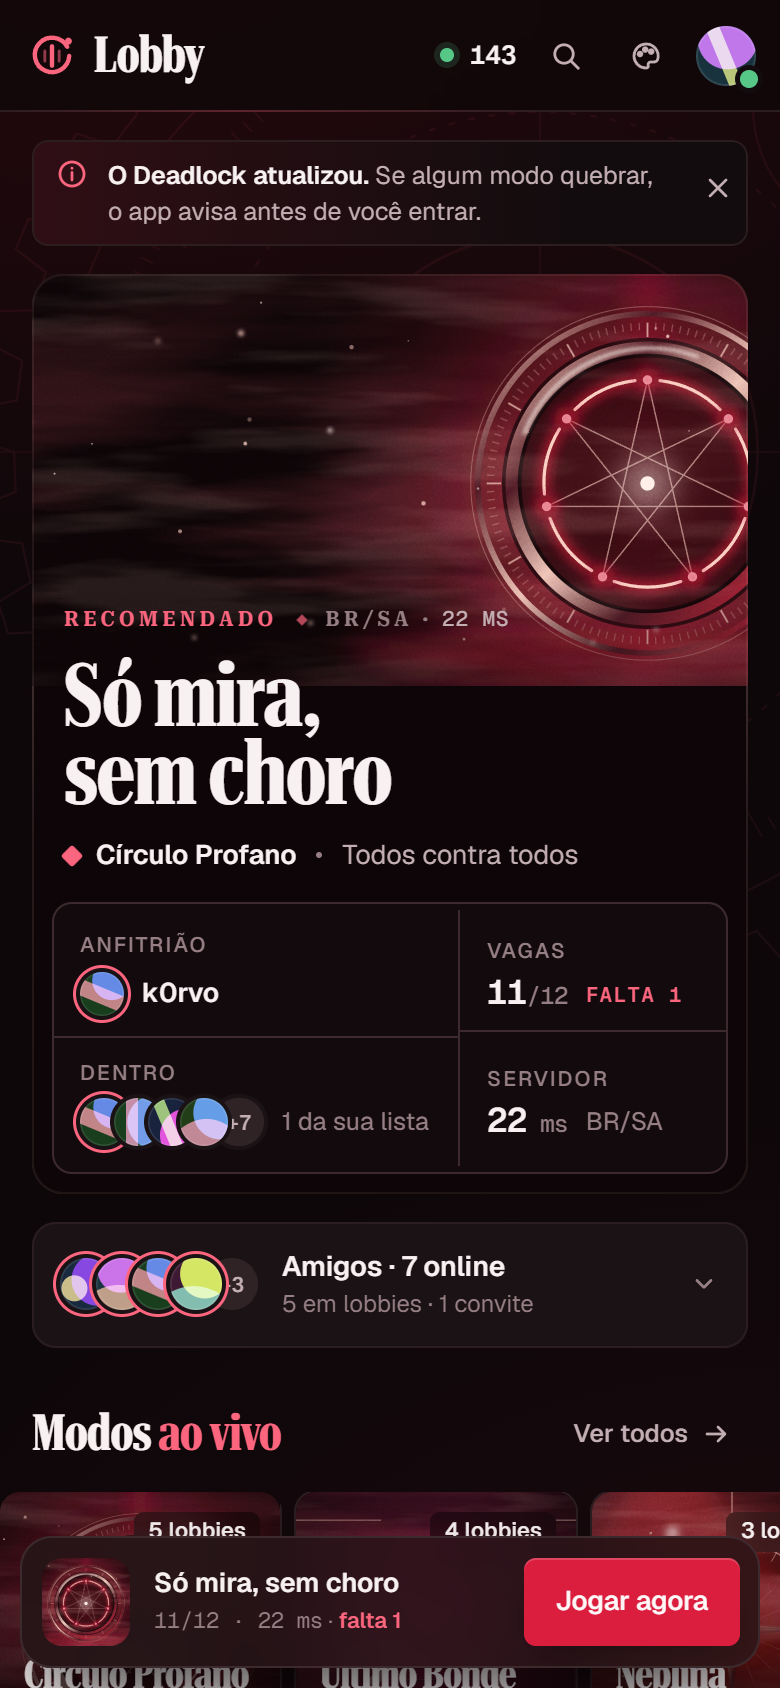
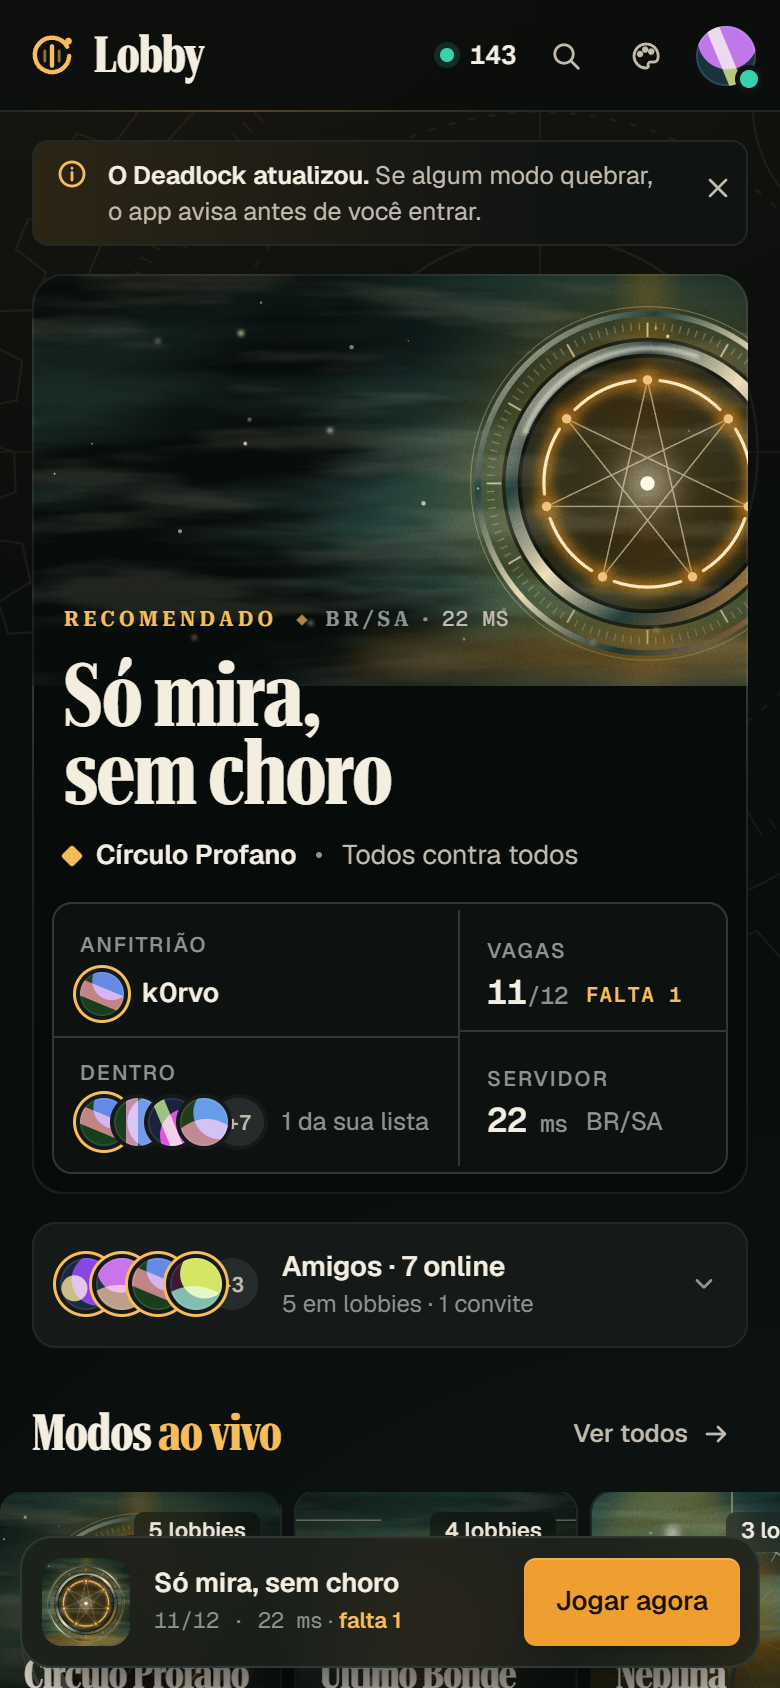
design: Deadlock vira o tema padrão do v8

diff --git a/prototipos/v8/v8.js b/prototipos/v8/v8.js
@@ -358,11 +358,11 @@ function lineArt(){
    TEMAS
    ===================================================================== */
 const THEMES = [
-  {id:'carmim',     name:'Carmim',     note:'Vinho e carmim. Padrão.', sw:['hsl(345 30% 6%)','hsl(350 76% 49%)']},
+  {id:'deadlock',   name:'Deadlock',   note:'Verde-fumaça, pergaminho e âmbar. Padrão.', sw:['hsl(170 16% 7%)','hsl(35 85% 56%)']},
+  {id:'carmim',     name:'Carmim',     note:'Vinho e carmim.', sw:['hsl(345 30% 6%)','hsl(350 76% 49%)']},
   {id:'pergaminho', name:'Pergaminho', note:'Quase preto quente e creme.', sw:['hsl(20 10% 7%)','hsl(42 60% 84%)']},
   {id:'gelo',       name:'Gelo',       note:'Frio, herdeiro da pele B.', sw:['hsl(218 30% 6%)','hsl(190 92% 70%)']},
   {id:'grafite',    name:'Grafite',    note:'Neutro e calmo, para longas sessões.', sw:['hsl(225 6% 11%)','hsl(20 50% 64%)']},
-  {id:'deadlock',   name:'Deadlock',   note:'Verde-fumaça, pergaminho e âmbar.', sw:['hsl(170 16% 7%)','hsl(35 85% 56%)']},
 ];
 function setTheme(id){
   document.documentElement.dataset.theme=id; store.set('theme',id);
@@ -402,7 +402,7 @@ function toast(msg,icon='check'){
 function mountShell(page){
   document.body.insertAdjacentHTML('afterbegin',globalDefs());
   $('#tb').innerHTML=titlebar(page);
-  setTheme(document.documentElement.dataset.theme||'carmim');
+  setTheme(document.documentElement.dataset.theme||'deadlock');
   const html=document.documentElement;
   const close=()=>html.classList.remove('sheet-open');
   document.addEventListener('click',e=>{

diff --git a/prototipos/v8/home.html b/prototipos/v8/home.html
@@ -1,5 +1,5 @@
 <!doctype html>
-<html lang="pt-BR" data-theme="carmim">
+<html lang="pt-BR" data-theme="deadlock">
 <head>
 <meta charset="utf-8">
 <meta name="viewport" content="width=device-width,initial-scale=1,viewport-fit=cover">

diff --git a/prototipos/v8/sala.html b/prototipos/v8/sala.html
@@ -1,5 +1,5 @@
 <!doctype html>
-<html lang="pt-BR" data-theme="carmim">
+<html lang="pt-BR" data-theme="deadlock">
 <head>
 <meta charset="utf-8">
 <meta name="viewport" content="width=device-width,initial-scale=1,viewport-fit=cover">

diff --git a/docs/design/v8-estrutura.md b/docs/design/v8-estrutura.md
@@ -62,7 +62,7 @@ Sem rolagem horizontal a 375 px (medido: `scrollWidth = innerWidth` em 375 e 390
 
 ### Cor (por tema; todos em `v8.css`, nomes iguais nos três temas)
 
-| Token | Papel | Carmim (padrão) | Pergaminho | Gelo |
+| Token | Papel | Carmim | Pergaminho | Gelo |
 |---|---|---|---|---|
 | `--bg` | fundo | `hsl(345 30% 4%)` | `hsl(20 10% 5%)` | `hsl(218 30% 4%)` |
 | `--bg-tint`, `--bg-tint-2` | brilho radial do fundo | carmim 20% | âmbar 10% | ciano 12% |
@@ -77,10 +77,10 @@ Sem rolagem horizontal a 375 px (medido: `scrollWidth = innerWidth` em 375 e 390
 | `--lineart` | line-art de maquinário (opacidade 5–7,5%) | carmim | latão | gelo |
 | `--k0 --k1 --k2 --kh --kl --ks --kc` | capa: fundo, meio, brilho, metal claro, metal escuro, fumaça, núcleo de luz | | | |
 
-Mais dois temas, nos mesmos 28 tokens, como candidatos a padrão:
+Mais dois temas, nos mesmos 28 tokens. **O padrão é o Deadlock** (escolha do usuário em 02/11/2026): é o tema que abre sem nada salvo e o primeiro da lista.
 
 - **Grafite** (`grafite`): neutro e calmo. Cinza-grafite com pouco croma, superfícies um passo mais claras (fundo 8%, cartão 12,5%), texto levemente quente e um acento argila suave `hsl(20 50% 64%)`. Pensado para quem chega e para sessões longas.
-- **Deadlock** (`deadlock`): verde-fumaça quase preto `hsl(170 16% 4.5%)`, texto pergaminho `hsl(42 45% 92%)`, acento âmbar `hsl(35 85% 56%)` e `--live` verde-alma `hsl(166 62% 52%)`. São as cores do clima do jogo, sem nenhum asset.
+- **Deadlock** (`deadlock`, padrão): verde-fumaça quase preto `hsl(170 16% 4.5%)`, texto pergaminho `hsl(42 45% 92%)`, acento âmbar `hsl(35 85% 56%)` e `--live` verde-alma `hsl(166 62% 52%)`. São as cores do clima do jogo, sem nenhum asset.
 
 **Um sistema de acento:** `--acc` para agir, `--acc-tx` para chamar atenção no texto e `--live` só para presença. Cada modo desloca a matiz da capa em −18° a +22° (`--m` em `MODES[k].shift`, aplicado com `oklch(from …)`), então os modos se distinguem sem sair da família do tema.
 
@@ -112,7 +112,7 @@ Mais dois temas, nos mesmos 28 tokens, como candidatos a padrão:
 
 | Da B · Gelo técnico (estrutura) | Do DMM e do clima do Deadlock (pele) | Novo no v8 |
 |---|---|---|
-| Barra superior com nav, busca Ctrl K, contagem ao vivo, pílula da sala e conta | Fundo quase preto quente, creme/pergaminho (tema Pergaminho) e o vermelho que o usuário usa (Carmim, padrão) | Sistema de 3 temas por tokens, com capas que mudam de cor |
+| Barra superior com nav, busca Ctrl K, contagem ao vivo, pílula da sala e conta | Fundo quase preto quente, creme/pergaminho (tema Pergaminho) e o vermelho que o usuário usa (Carmim) | Sistema de 5 temas por tokens (padrão: Deadlock), com capas que mudam de cor |
 | Trilho social fixo (grupo, convite, amigos com presença e Entrar) | Serifa condensada em títulos, com a palavra de acento em dois tons | Capas como emblemas de oficina oculta (anel ritual, trilho e catenária, bússola na neblina, roda de cofre, relógio com lâminas, estande de tiro) com fumaça, latão, grão e vinheta |
 | Ordem da home: recomendado com barra de dados, modos, lobbies com abas e filtros, chegando agora | Rótulos espaçados em caixa alta | Deslocamento de matiz por modo dentro do tema |
 | Sala: cabeçalho, grade de vagas, PRONTO fixo, trilho com regras, convite e atividade | Densidade de 12–13 px | Fluxo de PRONTO completo: contagem cancelável e 4 etapas do handoff |
